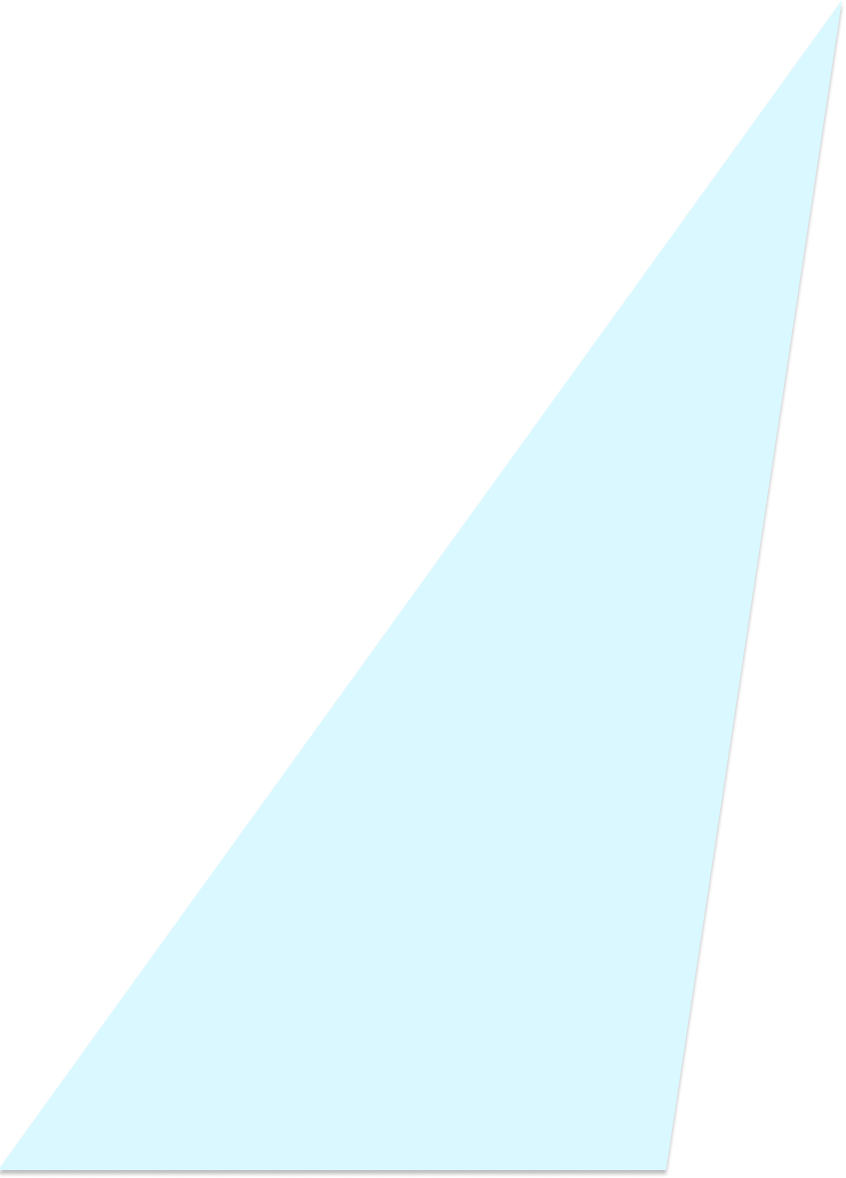
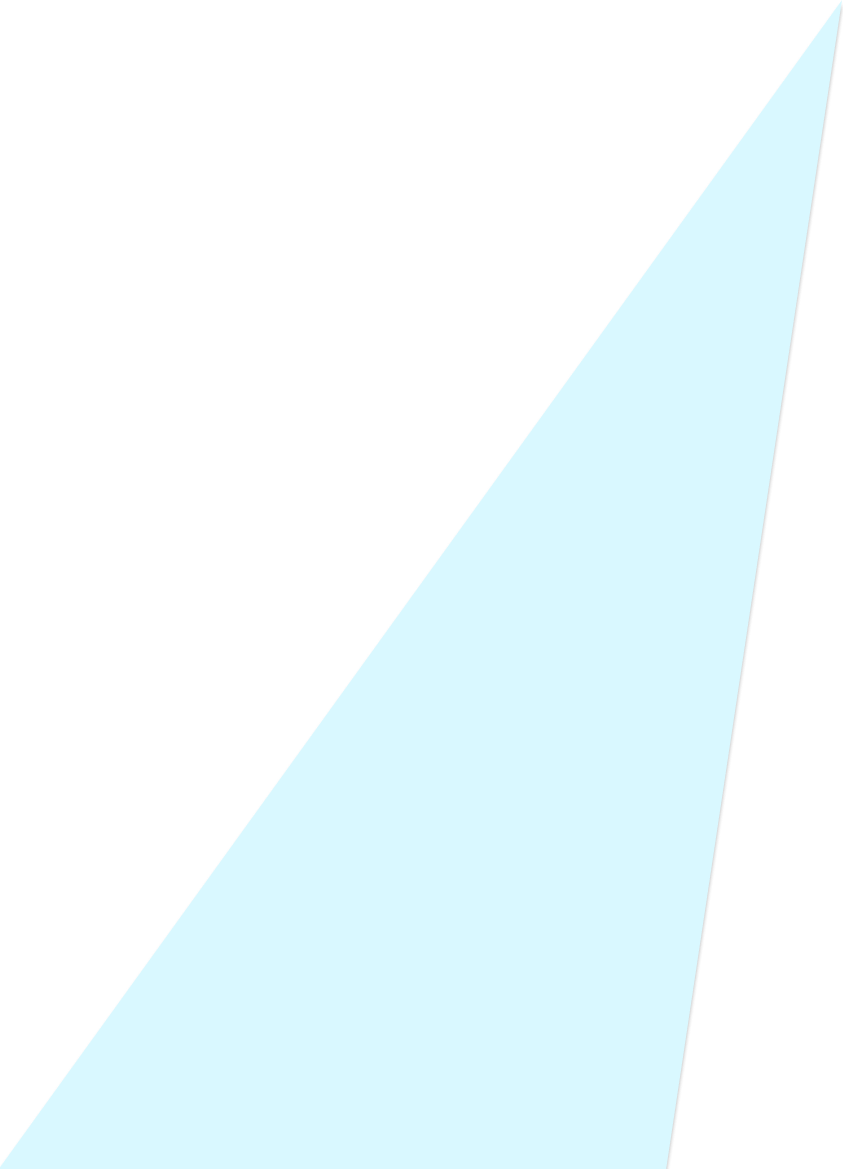
Résolution conflits de fusion css frontPage

diff --git a/public/scss/index.scss b/public/scss/index.scss
@@ -4,7 +4,8 @@
 
     position: relative;
     padding: 10vh;
-    z-index: 1;
+    width: 100%;
+    height: 100%;
 
     &__presentation {
       display: flex;
@@ -17,13 +18,14 @@
         width: 50vw;
         max-height: 80vh;
         height: 80vh;
-        background-image: url(../assets/home/formes_geomtriques/Ellipse-2.svg);
+        background-image: url(../assets/home/formes_geometriques/Ellipse_2.svg);
         background-position: center;
         background-repeat: no-repeat;
         background-size: contain;
 
         display: flex;
         justify-content: center;
+        z-index: 2;
 
       }
 
@@ -39,8 +41,31 @@
         text-align: center;
 
         padding-top: 6%;
+        z-index: 2;
 
       }
+    }
+
+    &__upperPolygon {
+      position: absolute;
+      top: 0;
+      left: 0;
+      width: 60%;
+      height: 50%;
+      background: no-repeat url('./../assets/home/formes_geometriques/Polygon_4.png');
+      background-size: 100% 100%;
+      z-index: 1;
+    }
+
+    &__lowerPolygon {
+      position: absolute;
+      bottom: 0;
+      left: 0;
+      width: 60%;
+      height: 50%;
+      background: no-repeat url('./../assets/home/formes_geometriques/Polygon_3.png');
+      background-size: 100% 100%;
+      z-index: 1;
     }
   }
 }

diff --git a/public/css/index.css b/public/css/index.css
@@ -1,7 +1,8 @@
 .frontPage__container {
   position: relative;
   padding: 10vh;
-  z-index: 1;
+  width: 100%;
+  height: 100%;
 }
 .frontPage__container__presentation {
   display: flex;
@@ -13,12 +14,13 @@
   width: 50vw;
   max-height: 80vh;
   height: 80vh;
-  background-image: url(../assets/home/formes_geomtriques/Ellipse-2.svg);
+  background-image: url(../assets/home/formes_geometriques/Ellipse_2.svg);
   background-position: center;
   background-repeat: no-repeat;
   background-size: contain;
   display: flex;
   justify-content: center;
+  z-index: 2;
 }
 .frontPage__container__presentation__text {
   max-width: 25vw;
@@ -31,4 +33,25 @@
   letter-spacing: -0.06em;
   text-align: center;
   padding-top: 6%;
+  z-index: 2;
+}
+.frontPage__container__upperPolygon {
+  position: absolute;
+  top: 0;
+  left: 0;
+  width: 60%;
+  height: 50%;
+  background: no-repeat url("./../assets/home/formes_geometriques/Polygon_4.png");
+  background-size: 100% 100%;
+  z-index: 1;
+}
+.frontPage__container__lowerPolygon {
+  position: absolute;
+  bottom: 0;
+  left: 0;
+  width: 60%;
+  height: 50%;
+  background: no-repeat url("./../assets/home/formes_geometriques/Polygon_3.png");
+  background-size: 100% 100%;
+  z-index: 1;
 }
